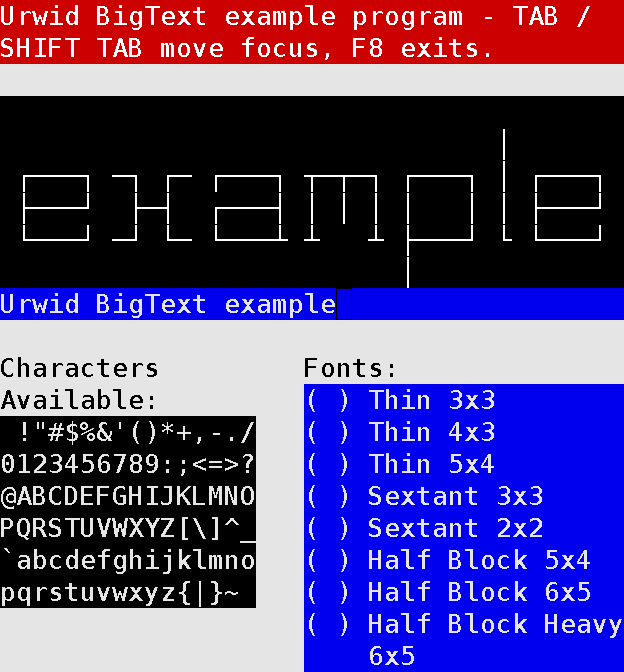
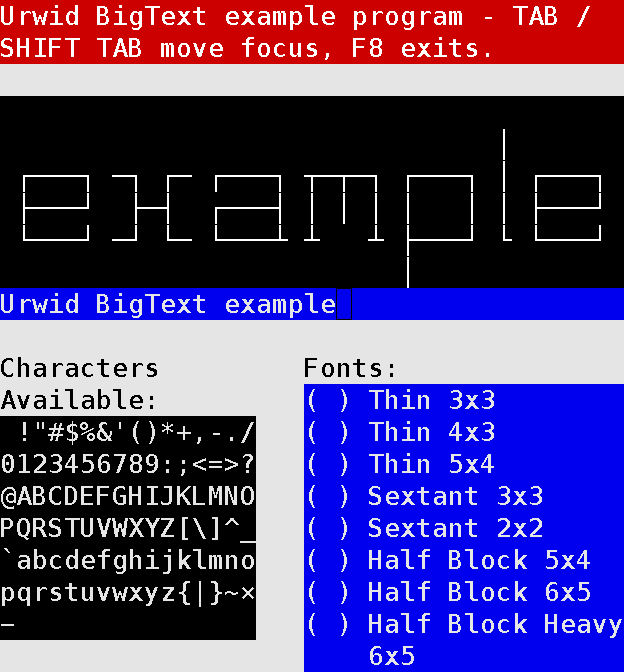
Add hex digits, brackets and math signs to BigText fonts (#1591)
Fonts now cover what a number or a simple formula needs:

- Thin 3x3 gets A-F and ( ) { } | ~.
- Sextant 2x2 gets A-F and + - * / =.
- Every font gets the minus sign U+2212 and the multiplication sign
  U+00D7, drawn differently from the hyphen and from x.
- The punctuation check in test_005 applies to fonts with all 52 ASCII
  letters, so digit-and-hex fonts need not carry every symbol.
- The BigText example screenshots are regenerated: the character list
  now ends with the new signs.

Changed region(s): [[0.0, 0.875, 0.4263, 0.9688]]

diff --git a/urwid/font.py b/urwid/font.py
@@ -289,12 +289,30 @@ class Thin3x3Font(Font):
 │ │ │ ┌─┘ ─┤└─┼└─┐├─┐  ┼├─┤└─┤  │
 └─┘ ┴ └─ └─┘  ┴ ─┘└─┘  ┴└─┘ ─┘  .
 """,
+        """
+AAABBBCCCDDDEEEFFF
+┌─┐┬─┐┌─ ┬─┐┌─ ┌─
+├─┤├─┤│  │ │├─ ├─
+┴ ┴┴─┘└─ ┴─┘└─ ┴
+""",
+        r"""
+((())){{{|||}}}~~~
+ ╭  ╮  ┌  │  ┐
+ │  │ ─┤  │  ├─/\/
+ ╰  ╯  └  │  ┘
+""",
         r"""
 "###$$$%%%'*++,--.///:;==???[[\\\]]^__`
 " ┼┼┌┼┐O /'         /.. _┌─┐┌ \   ┐^  `
   ┼┼└┼┐ /  * ┼  ─  / ., _ ┌┘│  \  │
     └┼┘/ O    ,  ./       . └   \ ┘ ──
 """,
+        r"""
+−−−×××
+   \ /
+─── X
+   / \
+""",  # noqa: RUF001
     )
 
 
@@ -381,6 +399,13 @@ nnnnnooooopppppqqqqqrrrrsssssttttuuuuuvvvvvwwwwwwxxxxxyyyyyzzzzz
 │  │ │  │ ├──┘ └──┤ │   └──┐  │  │  │ └┐┌┘ │ │ │  ├┤  └──┤ ┌──┘
 ┴  ┴ └──┘ ┴       ┴ ┴   └──┘  └─ └──┴  └┘  └─┴─┘ ─┘└─ └──┘ └───
 """,
+        r"""
+−−−−−×××××
+
+      \ /
+────   X
+      / \
+""",  # noqa: RUF001
     )
 
 
@@ -438,6 +463,12 @@ RRRSSSTTTUUUVVVWWWXXXYYYZZZ[[[]]]^^^___```
 🬁🬓  ▌  🬦🬀🬅🬈🬅
  🬁🬀 ▌ 🬁🬀
 """,
+        """
+−−−×××
+   🬏 🬞
+🬋🬋🬋🬠🬋🬐
+   🬀 🬁
+""",  # noqa: RUF001
     )
 
 
@@ -446,11 +477,23 @@ class Sextant2x2Font(Font):
 
     name = "Sextant 2x2"
     height = 2
-    data = """
+    data = (
+        """
 ..,,%%00112233445566778899
     🬁🬖▐🬨🬇▌🬁🬗🬠🬸🬦▐▐🬒▐🬭🬁🬙▐🬸▐🬸
 🬇 🬇🬀🬁🬇🬉🬍 🬄🬉🬋🬇🬍🬁🬊🬇🬅🬉🬍 🬄🬉🬍 🬉
-"""
+""",
+        """
+--++**//==−−××
+🬞🬏🬞🬱🬇🬖 🬔🬇🬋🬞🬭🬢🬖
+   🬀🬁🬁🬉 🬁🬂  🬀🬁
+""",  # noqa: RUF001
+        """
+AABBCCDDEEFF
+▐🬸▐🬗▐🬂▐🬧▐🬒▐🬒
+🬉🬉🬉🬅🬉🬋🬉🬅🬉🬋🬉
+""",
+    )
 
 
 class HalfBlock5x4Font(Font):
@@ -522,6 +565,13 @@ uuuuuvvvvvwwwwwwxxxxxxyyyyyzzzzz
 █  █ ▐▌▐▌ ▐▌█▐▌  ▄▀▄  ▀▄▄█ ▄▀
  ▀▀   ▀▀   ▀ ▀  ▀   ▀  ▄▄▀ ▀▀▀▀
 """,
+        """
+−−−−−−××××××
+
+▄▄▄▄▄ ▄   ▄
+       ▀▄▀
+      ▄▀ ▀▄
+""",  # noqa: RUF001
     )
 
 
@@ -587,6 +637,14 @@ nnnnnnooooooppppppqqqqqqrrrrrsssssstttttuuuuuuvvvvvvwwwwwwxxxxxxyyyyyyzzzzzz
   ▐▌   ▐▌         ▀            ▄  ▀▄        ▄▀        █ ▀▀▀ █    ▐▌   █                 █  █  █
    ▀▄ ▄▀              ▄▀      ▄▀    ▀      ▀      ▀    ▀▀▀  ▀▀▀   ▀ ▀▀▀       ▄▄▄▄▄     ▀▄ █ ▄▀
 """,
+        """
+−−−−−−××××××
+
+      ▄   ▄
+▀▀▀▀▀  ▀▄▀
+      ▄▀ ▀▄
+
+""",  # noqa: RUF001
     )
 
 
@@ -660,6 +718,14 @@ nnnnnnooooooppppppqqqqqqrrrrrsssssstttttuuuuuuvvvvvvwwwwwwxxxxxxyyyyyyzzzzzz
 
 
 """,
+        """
+−−−−−−××××××
+
+      ▄█ █▄
+█████  ▐█▌
+      ▀█ █▀
+
+""",  # noqa: RUF001
     )
 
 
@@ -759,6 +825,15 @@ ttttuuuuuuvvvvvvwwwwwwxxxxxxyyyyyyzzzzzz
  └─ └───┴  └─┘  └─┴─┘ ─┘ └─ └───┤ ┴────
                             └───┘
 """,
+        r"""
+−−−−−−××××××
+
+       \  /
+─────   \/
+        /\
+       /  \
+
+""",  # noqa: RUF001
     )
 
 
@@ -868,6 +943,16 @@ tttttuuuuuuuvvvvvvvwwwwwwwwxxxxxxxyyyyyyyzzzzzzz
   █▌  ▀███▀   ▐█▌   ▀█▌▐█▀ ▐█   █▌  ▀▀▀█▌▐█████▌
                                    ▀███▀
 """,
+        """
+−−−−−−−×××××××
+
+       ▐▌   ▐▌
+▐█████▌ ▀█▄█▀
+         ▐█▌
+        ▄█▀█▄
+       ▐▌   ▐▌
+
+""",  # noqa: RUF001
     )
 
 

diff --git a/tests/test_font.py b/tests/test_font.py
@@ -69,10 +69,12 @@ class TestFontRender(unittest.TestCase):
                     )
                 ],
             ),
+            ("hexadecimal", frozenset("0123456789ABCDEF"), all_fonts),
+            ("arithmetic", frozenset("+-*/=" + "\u2212\u00d7"), all_fonts),
             (
                 "punctuation",
                 frozenset(string.punctuation + " "),
-                [font for font in all_fonts if letters & frozenset(font.characters())],
+                [font for font in all_fonts if letters <= frozenset(font.characters())],
             ),
         )
         for case, expected, fonts in cases:
@@ -82,3 +84,11 @@ class TestFontRender(unittest.TestCase):
                     for character in sorted(expected):
                         with self.subTest(character=character):
                             self.assertEqual(font.height, font.render(character).rows())
+
+    def test_006_thin_3x3_hexadecimal_and_brackets(self):
+        """Thin 3x3 draws the uppercase hexadecimal digits and ``(){}|~`` in a 3x3 cell."""
+        font = urwid.Thin3x3Font()
+        for character in "0123456789ABCDEF(){}|~":
+            with self.subTest(character=character):
+                self.assertEqual(3, font.char_width(character))
+                self.assertEqual(3, font.render(character).rows())
